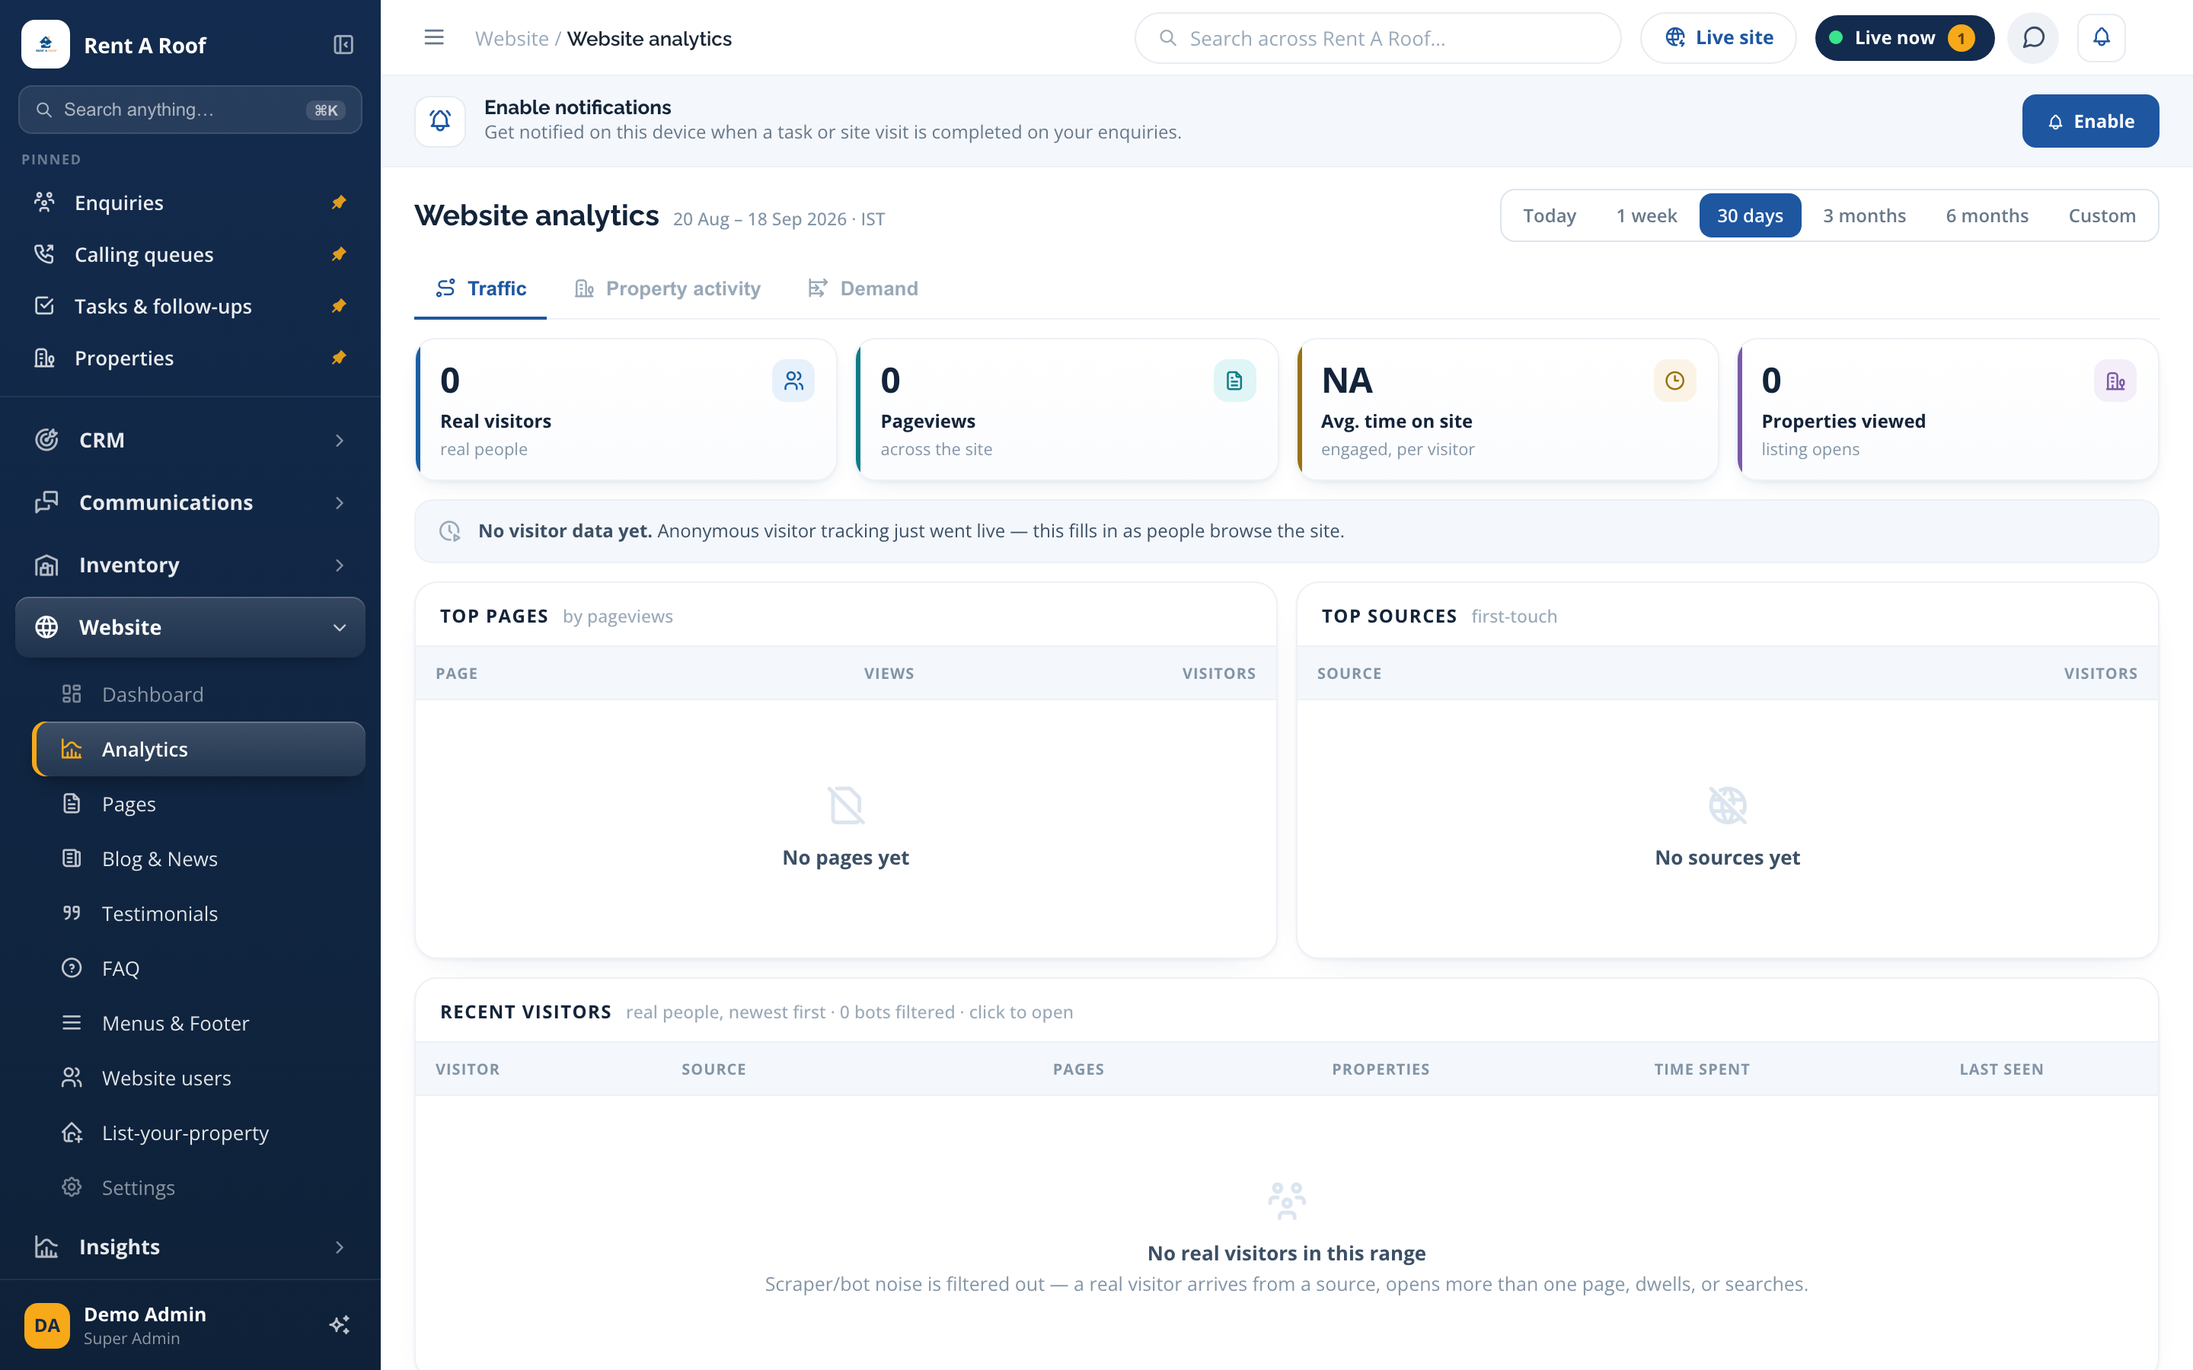
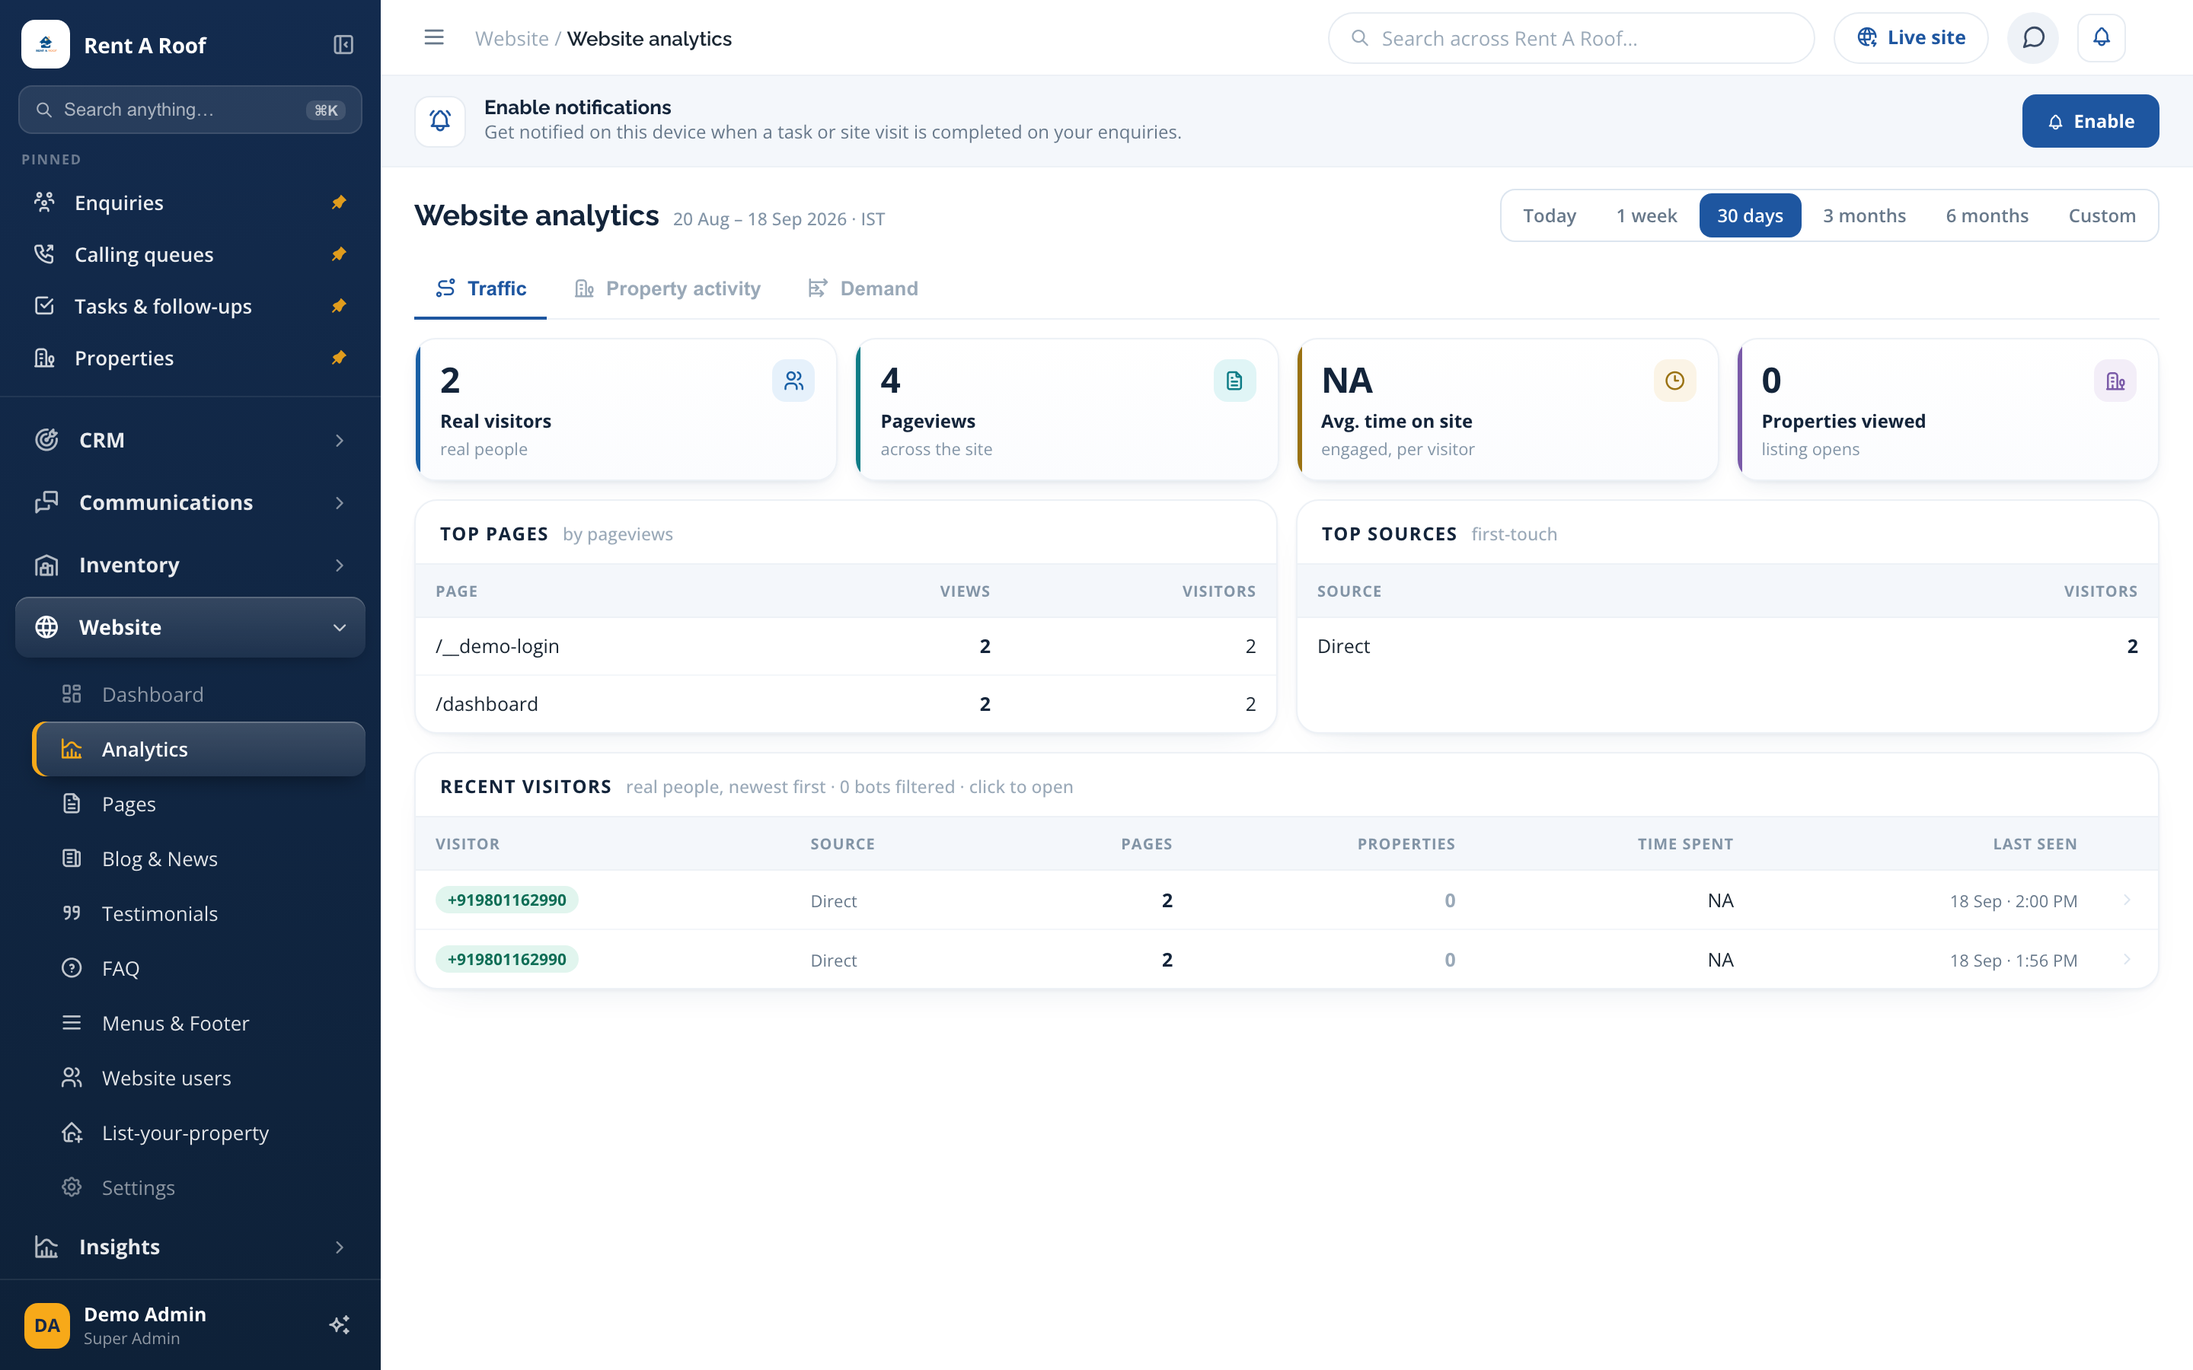
Add CMS, deals & closures, tasks, roles, config, import/export, bulk, Roofie + full mobile
Broadens the tour to 79 shots with seeded demo data:
- Website CMS: pages, menus/footer, blog, testimonials (populated)
- Deals & closures pipeline + closed-won deal workspace (10 seeded deals)
- Tasks & follow-ups, users/roles/permissions, configurator, preferences
- Enquiries & inventory import workbooks; enquiries & inventory bulk toolbars
- Roofie: front-desk inbox, greeting, and a free-text brief pulling live matches
- Populated locality guides index + a locality detail page
- Collapsible sidebar / drawer
- Relevant mobile view for every new feature (m10–m29)

diff --git a/README.md b/README.md
@@ -1,6 +1,6 @@
 # Rent A Roof — Real-Estate CRM & Operations Platform
 
-A production platform that runs a live real-estate brokerage end to end — **CRM, property inventory, automatic property↔lead matching, a public website + CMS, an AI front-desk assistant, a customer account area, and full analytics** — in one system.
+A production platform that runs a live real-estate brokerage end to end — **CRM, property inventory, automatic property↔lead matching, a public website + CMS, an AI front-desk assistant, a customer account area, deals & closures, and full analytics** — in one system.
 
 > 🔒 **This is a public showcase.** The complete source lives in a **private** repository — I'm happy to grant access to serious reviewers on request. Every screenshot below uses **demo data** (real customer data, credentials, and phone numbers removed); the brand is shown as it runs in production.
 
@@ -8,23 +8,13 @@ A production platform that runs a live real-estate brokerage end to end — **CR
 
 ## What it does
 
-### 🎯 CRM & lead lifecycle
-A complete lead pipeline: enquiries move through stages (New → Qualified → Property-matching → Visiting → Negotiating → Won/Lost), each with tasks, follow-ups, calling queues and role-based ownership. Every number on the dashboard opens the exact list behind it.
-
-### 🏢 Inventory & multi-unit management
-Full property inventory — residential & commercial, rent & sale, whole buildings with per-floor units, owner profiles, verification tiers and locality mastering. Composable status tiles double as filters, and a stacking-plan view manages every floor of a building as its own rentable unit.
-
-### 🔗 Smart property ↔ lead matching
-A suggestion engine automatically matches live inventory to open requirements — scoring each on BHK, area and budget — and raises **match alerts** when a new property fits a waiting lead, surfaced on the dashboard, the workspace and via notifications.
-
-### 💬 Communications — the "front desk"
-A unified inbox powered by **Roofie**, an AI assistant that greets website visitors, qualifies them and books visits, with a human able to step in anytime. Channels include WhatsApp, SMS and Email, with live KPIs.
-
-### 🌐 Website, CMS & customer accounts
-The public property website is part of the same platform: searchable listings from live inventory, locality guides, property-detail pages, a compare tray, and a phone-OTP **customer dashboard** (shortlist, enquiries, booked visits, saved searches). A full CMS drives pages, menus, blog and testimonials.
-
-### 📊 Analytics & engagement tracking
-Visitor tracking, campaign funnels (visitors → signups → enquiries → qualified → won → revenue), source attribution and per-property engagement — so every lead's journey is visible end to end.
+- **🎯 CRM & lead lifecycle** — enquiries move New → Qualified → Property-matching → Visiting → Negotiating → Won/Lost, each with tasks, follow-ups, calling queues and role-based ownership. Every dashboard number opens the list behind it.
+- **🏢 Inventory & multi-unit management** — residential & commercial, rent & sale, whole buildings with per-floor units, owner profiles, verification tiers, locality mastering. Composable status tiles double as filters; a stacking-plan view manages every floor as its own unit.
+- **🔗 Smart property ↔ lead matching** — a suggestion engine scores live inventory against open requirements (BHK, area, budget) and raises match alerts when a new property fits a waiting lead.
+- **🤝 Deals & closures** — a booked-deal pipeline with token/payment tracking, commission, agreement generation and closure states, plus win-rate and conversion KPIs.
+- **💬 Communications — the "front desk"** — a unified inbox powered by **Roofie**, an AI assistant that greets visitors, understands free-text briefs, pulls live matches, quotes neighbourhood price bands and books visits — with a human able to jump in anytime.
+- **🌐 Website, CMS & customer accounts** — the public property site is part of the same platform: searchable listings, locality guides, a compare tray, a phone-OTP customer dashboard, and a full CMS for pages, menus, blog and testimonials.
+- **📊 Analytics & engagement tracking** — visitor tracking, campaign funnels (visitors → signups → enquiries → qualified → won → revenue), source attribution and per-property engagement.
 
 ---
 
@@ -40,37 +30,35 @@ Visitor tracking, campaign funnels (visitors → signups → enquiries → quali
 **Property detail** — full spec sheet, gallery, similar listings and enquiry CTA
 ![Property detail](screenshots/d03-website-property-detail.png)
 
-**Locality guides** — browse by neighbourhood
-![Localities](screenshots/d04-website-localities.png)
+**Locality guides** — every serviced colony, written up by the team
+![Locality guides](screenshots/d04-website-localities.png)
+
+**Locality detail** — the area in the team's words: getting around, price bands, live listings
+![Locality detail](screenshots/d04b-website-locality-detail.png)
 
 ### 👤 The customer account area (phone-OTP dashboard)
 **Overview** — saved properties, open enquiries, next visit, new matches
 ![Customer dashboard](screenshots/d05-customer-dashboard.png)
 
-**Shortlist** — everything the customer saved, in one place
-![Customer shortlist](screenshots/d05b-customer-shortlist.png)
-
-**Enquiries** — every enquiry they raised and where it stands with the desk
-![Customer enquiries](screenshots/d05c-customer-enquiries.png)
-
-**Visits** — booked site visits
-![Customer visits](screenshots/d05d-customer-visits.png)
+**Shortlist** ![Shortlist](screenshots/d05b-customer-shortlist.png)
+**Enquiries** ![Customer enquiries](screenshots/d05c-customer-enquiries.png)
+**Visits** ![Customer visits](screenshots/d05d-customer-visits.png)
 
 ### 🎯 CRM — command centre
 **Dashboard** — cohort board where every number opens its list
 ![CRM dashboard](screenshots/d06-crm-dashboard.png)
 
-**Enquiries** — the full lead list with filters, smart views and match counts
+**Enquiries** — the full lead list with smart views, filters and match counts
 ![CRM enquiries](screenshots/d07-crm-enquiries.png)
 
 ### 🧭 The enquiry workspace
-**Tasks & follow-ups** — the qualified lead, its requirement brief, and everything scheduled
+**Tasks & follow-ups** — the qualified lead, its requirement brief, everything scheduled
 ![Enquiry workspace](screenshots/d08-crm-enquiry-workspace.png)
 
-**Property suggestions** — live inventory matched to this requirement, best fit first
+**Property suggestions** — live inventory matched to the requirement, best fit first
 ![Property suggestions](screenshots/d08b-crm-property-suggestions.png)
 
-**Buckets** — curate a handpicked set and track it through Shared → Visited → Shortlisted → Finalised
+**Buckets** — curate a handpicked set, track it Shared → Visited → Shortlisted → Finalised
 ![Buckets](screenshots/d08c-crm-buckets.png)
 
 **Engagement** — what the customer actually did on the website (saved, viewed, searched)
@@ -83,63 +71,100 @@ Visitor tracking, campaign funnels (visitors → signups → enquiries → quali
 **Inventory** — live listings with photos, composable status facets and matching
 ![Inventory](screenshots/d11-crm-inventory.png)
 
-**Property workspace — engagement** — website interest, owner panel and record for one listing
-![Property workspace](screenshots/d12-crm-property-workspace.png)
+**Property workspace — engagement** ![Property workspace](screenshots/d12-crm-property-workspace.png)
+**Suggested leads** — open requirements this property suits, scored on fit ![Suggested leads](screenshots/d12b-crm-suggested-leads.png)
+**Units & listings** — the building's stacking plan; each floor a separate unit ![Units](screenshots/d12c-crm-property-units.png)
+**Property tasks** ![Property tasks](screenshots/d12d-crm-property-tasks.png)
+**Add a listing** — guided intake with the per-location code matrix ![Add listing](screenshots/d13-crm-add-listing.png)
 
-**Suggested leads** — open requirements this property would suit, scored on fit
-![Suggested leads](screenshots/d12b-crm-suggested-leads.png)
+### 🤝 Deals & closures
+**Pipeline** — booked deals by stage with win-rate, conversion and token KPIs
+![Deals](screenshots/e05-deals.png)
 
-**Units & listings** — the building's stacking plan; each floor a separately rentable unit
-![Units and listings](screenshots/d12c-crm-property-units.png)
+**Deal workspace** — a closed-won deal: parties, pipeline, agreement, documents
+![Deal workspace](screenshots/e06-deal-workspace.png)
 
-**Property tasks** — visits and follow-ups scheduled against the listing
-![Property tasks](screenshots/d12d-crm-property-tasks.png)
+### ✅ Tasks & follow-ups
+Every call, visit and follow-up across the team, in one queue.
+![Tasks](screenshots/e07-tasks.png)
 
-**Add a listing** — the guided intake with the per-location code matrix
-![Add listing](screenshots/d13-crm-add-listing.png)
+### 🌐 Website CMS
+**Pages** — public pages built from editable section blocks ![CMS pages](screenshots/e01-cms-pages.png)
+**Menus & footer** ![CMS menus](screenshots/e02-cms-menus.png)
+**Blog & news** ![CMS blog](screenshots/e03-cms-blog.png)
+**Testimonials** — video & written reviews, publish toggles ![CMS testimonials](screenshots/e04-cms-testimonials.png)
 
 ### ⚙ Masters & configuration
 **Localities master** ![Localities master](screenshots/d14-crm-localities-master.png)
-
 **Pricing master** — requirement score = brief × market fit ![Pricing master](screenshots/d15-crm-pricing-master.png)
-
 **Owner profiles** ![Owner profiles](screenshots/d16-crm-owner-profiles.png)
-
 **Inventory activity** ![Inventory activity](screenshots/d17-crm-inventory-activity.png)
+**Configurator** — the shared dropdown vocabulary behind every form ![Configurator](screenshots/e10-vocabularies.png)
+**Preferences** ![Preferences](screenshots/e09-settings-preferences.png)
 
-### 💬 Communications
-**Roofie** — the AI front-desk inbox ![Roofie](screenshots/d10-crm-roofie-bot.png)
+### 👥 Users, roles & permissions
+**Team & access** ![Team](screenshots/d21-crm-team.png)
+**Roles & permissions** ![Roles](screenshots/e08-roles-permissions.png)
 
-**Calling queues** — who to call next, in order ![Calling queues](screenshots/d09-crm-calling-queues.png)
+### 📥 Import / export
+**Enquiries import workbook** ![Enquiries import](screenshots/e11-enquiries-import.png)
+**Inventory import workbook** ![Inventory import](screenshots/e12-inventory-import.png)
+
+### ⚡ Bulk actions
+**Enquiries** — WhatsApp, SMS, Email, calling queue, assign, follow-up, level, flag, tag, export
+![Enquiries bulk](screenshots/e15-enquiries-bulk.png)
+
+**Inventory** — status, publish, feature, descriptions, reassign, message owners, verify, copy links, export, delete
+![Inventory bulk](screenshots/e16-inventory-bulk.png)
+
+### 💬 Communications & the Roofie AI assistant
+**Calling queues** — who to call next, in priority order ![Calling queues](screenshots/d09-crm-calling-queues.png)
+**Front-desk inbox (CRM)** — every bot conversation, with human takeover ![Roofie inbox](screenshots/d10-crm-roofie-bot.png)
+**On the website** — greets, qualifies, offers quick actions ![Roofie assistant](screenshots/e18-roofie-assistant.png)
+**Understands a free-text brief** — pulls live matches, quotes the area's price band, offers to save the search & book a visit ![Roofie conversation](screenshots/e18b-roofie-conversation.png)
 
 ### 📊 Analytics
-**Campaign analytics** — UTM-scoped funnel from visitor to revenue
-![Campaign analytics](screenshots/d18-crm-campaign-analytics.png)
-
-**Website analytics** — traffic, property demand and visitor journeys
-![Website analytics](screenshots/d19-crm-website-analytics.png)
-
+**Campaign analytics** — UTM funnel from visitor to revenue ![Campaign analytics](screenshots/d18-crm-campaign-analytics.png)
+**Website analytics** — traffic, property demand, visitor journeys ![Website analytics](screenshots/d19-crm-website-analytics.png)
 **Activity manager** ![Activity manager](screenshots/d20-crm-activity.png)
 
-### 👥 Team & operations
-**Team & access** — roles, permissions and per-user controls ![Team](screenshots/d21-crm-team.png)
+### 🧭 Collapsible navigation
+One accordion sidebar that collapses to an icon rail (⌘B) — more room for the work.
+![Collapsed sidebar](screenshots/e17-sidebar-collapsed.png)
 
-**Bulk actions** — select and act on many listings at once ![Bulk actions](screenshots/d22-crm-bulk-actions.png)
+---
 
-### 📱 Mobile
+## 📱 Mobile
 The CRM and website are built mobile-first — the mobile web app is a distinct, touch-native design, not a shrunk desktop.
 
-| Website | Property | Customer dashboard |
-|---|---|---|
-| ![m home](screenshots/m01-website-home.png) | ![m property](screenshots/m02-website-property.png) | ![m dashboard](screenshots/m09-customer-dashboard.png) |
+**Website & customer**
+| Home | Property | Locality guides | Locality detail | Customer dashboard |
+|---|---|---|---|---|
+| ![](screenshots/m01-website-home.png) | ![](screenshots/m02-website-property.png) | ![](screenshots/m28-website-localities.png) | ![](screenshots/m29-website-locality-detail.png) | ![](screenshots/m09-customer-dashboard.png) |
 
-| CRM dashboard | Enquiries | Enquiry workspace |
-|---|---|---|
-| ![m crm dash](screenshots/m03-crm-dashboard.png) | ![m enquiries](screenshots/m04-crm-enquiries.png) | ![m workspace](screenshots/m05-crm-workspace.png) |
+**CRM core**
+| Dashboard | Enquiries | Enquiry workspace | Inventory | Property workspace |
+|---|---|---|---|---|
+| ![](screenshots/m03-crm-dashboard.png) | ![](screenshots/m04-crm-enquiries.png) | ![](screenshots/m05-crm-workspace.png) | ![](screenshots/m06-crm-inventory.png) | ![](screenshots/m08-crm-property-workspace.png) |
 
-| Inventory | Property workspace | Roofie |
+**Deals, tasks & bulk**
+| Deals | Deal workspace | Tasks | Enquiries bulk | Inventory bulk |
+|---|---|---|---|---|
+| ![](screenshots/m14-deals.png) | ![](screenshots/m15-deal-workspace.png) | ![](screenshots/m16-tasks.png) | ![](screenshots/m24-enquiries-bulk.png) | ![](screenshots/m25-inventory-bulk.png) |
+
+**CMS, config & analytics**
+| CMS pages | Menus | Blog | Testimonials | Configurator |
+|---|---|---|---|---|
+| ![](screenshots/m10-cms-pages.png) | ![](screenshots/m11-cms-menus.png) | ![](screenshots/m12-cms-blog.png) | ![](screenshots/m13-cms-testimonials.png) | ![](screenshots/m19-vocabularies.png) |
+
+| Roles & permissions | Preferences | Enquiries import | Inventory import | Campaign analytics |
+|---|---|---|---|---|
+| ![](screenshots/m17-roles-permissions.png) | ![](screenshots/m18-settings.png) | ![](screenshots/m20-enquiries-import.png) | ![](screenshots/m21-inventory-import.png) | ![](screenshots/m22-campaign-analytics.png) |
+
+**Website analytics, drawer & Roofie**
+| Website analytics | Collapsible drawer | Roofie assistant |
 |---|---|---|
-| ![m inventory](screenshots/m06-crm-inventory.png) | ![m property ws](screenshots/m08-crm-property-workspace.png) | ![m roofie](screenshots/m07-crm-roofie.png) |
+| ![](screenshots/m23-website-analytics.png) | ![](screenshots/m26-drawer-menu.png) | ![](screenshots/m27-roofie.png) |
 
 ---
 
